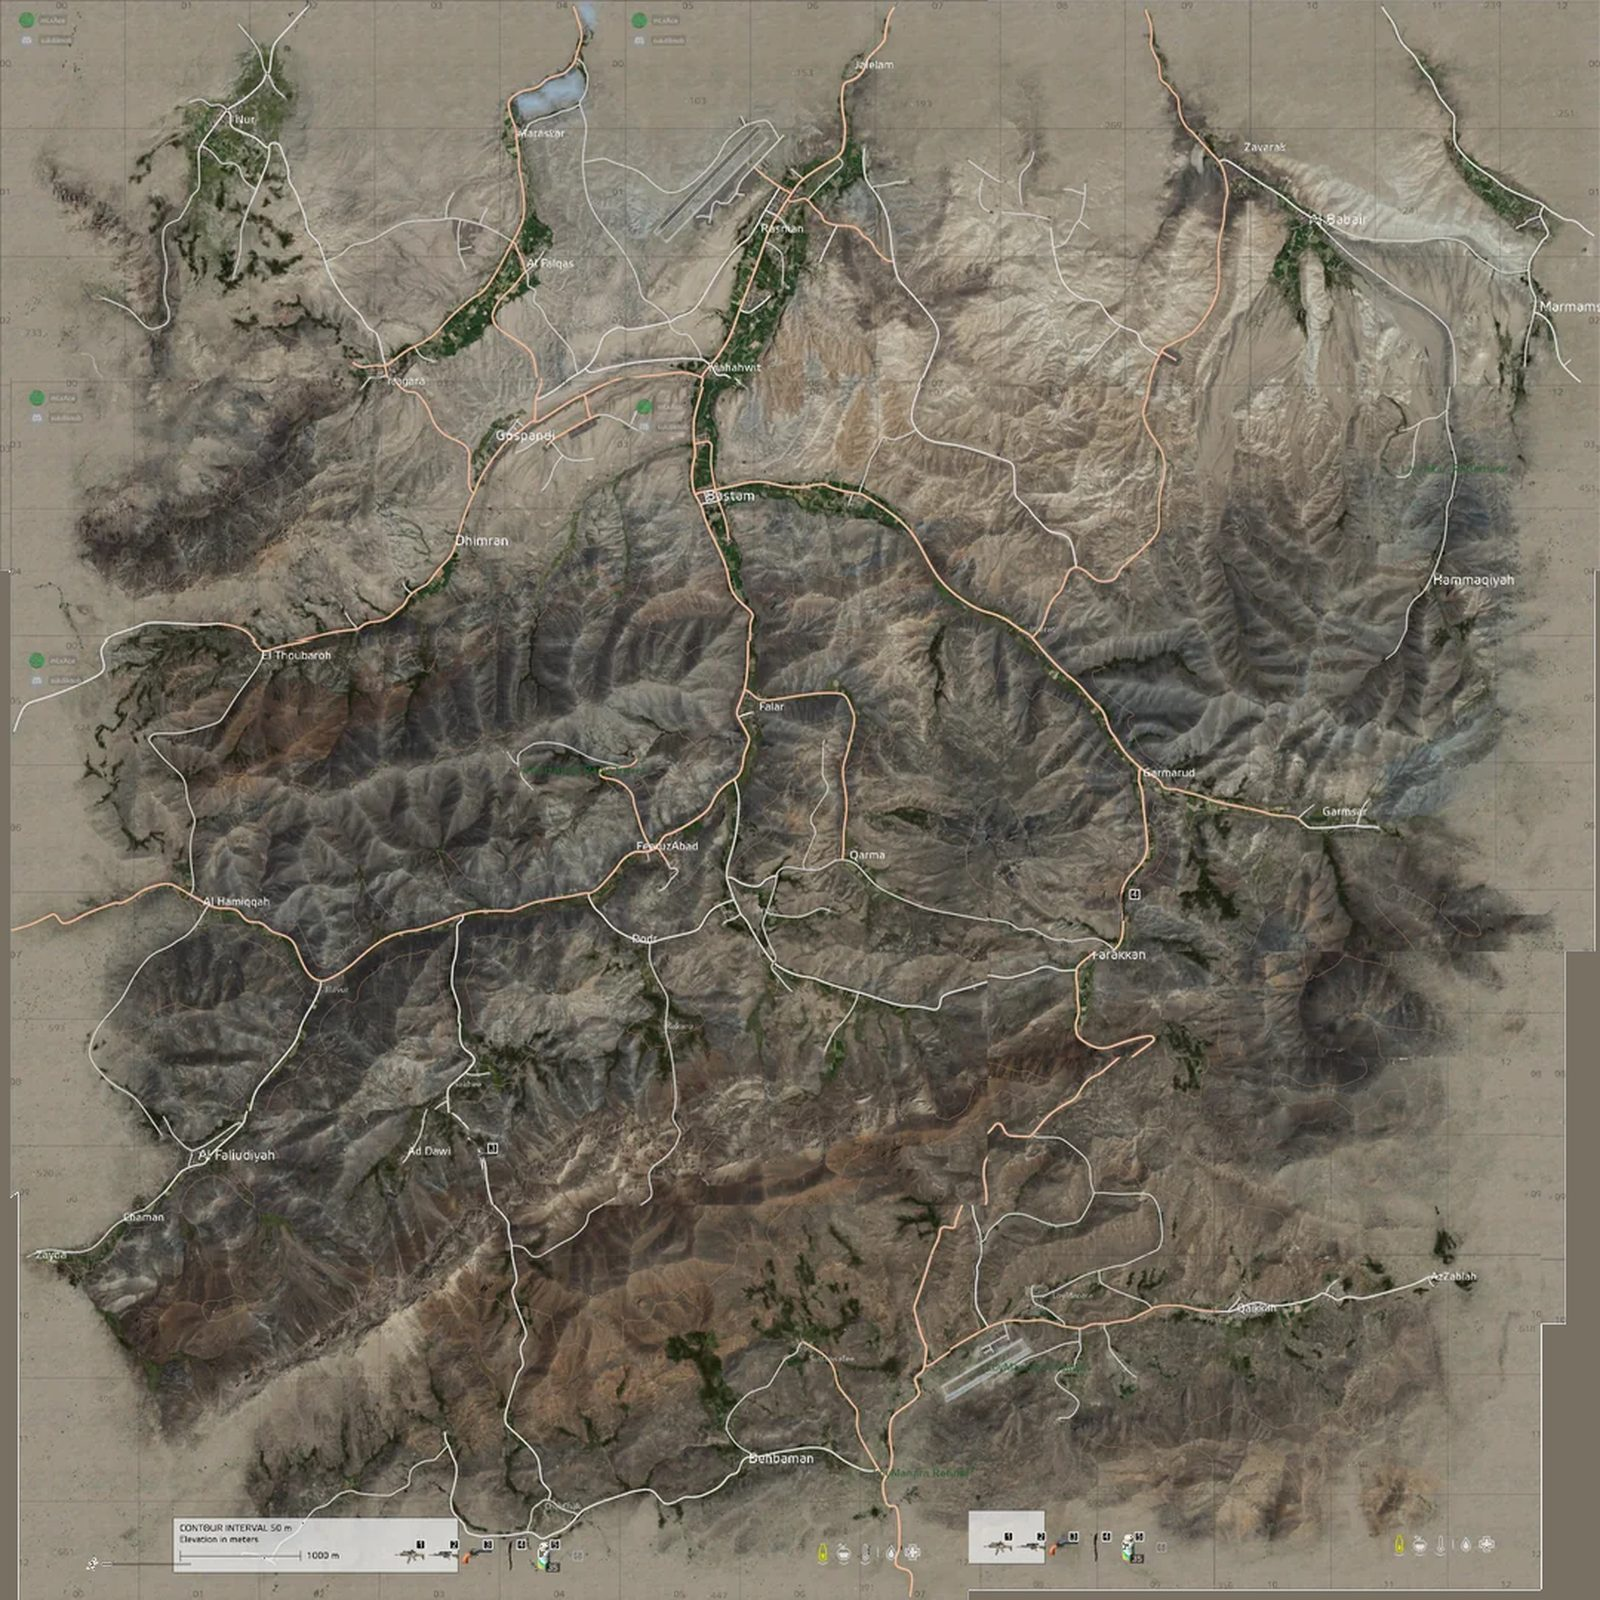
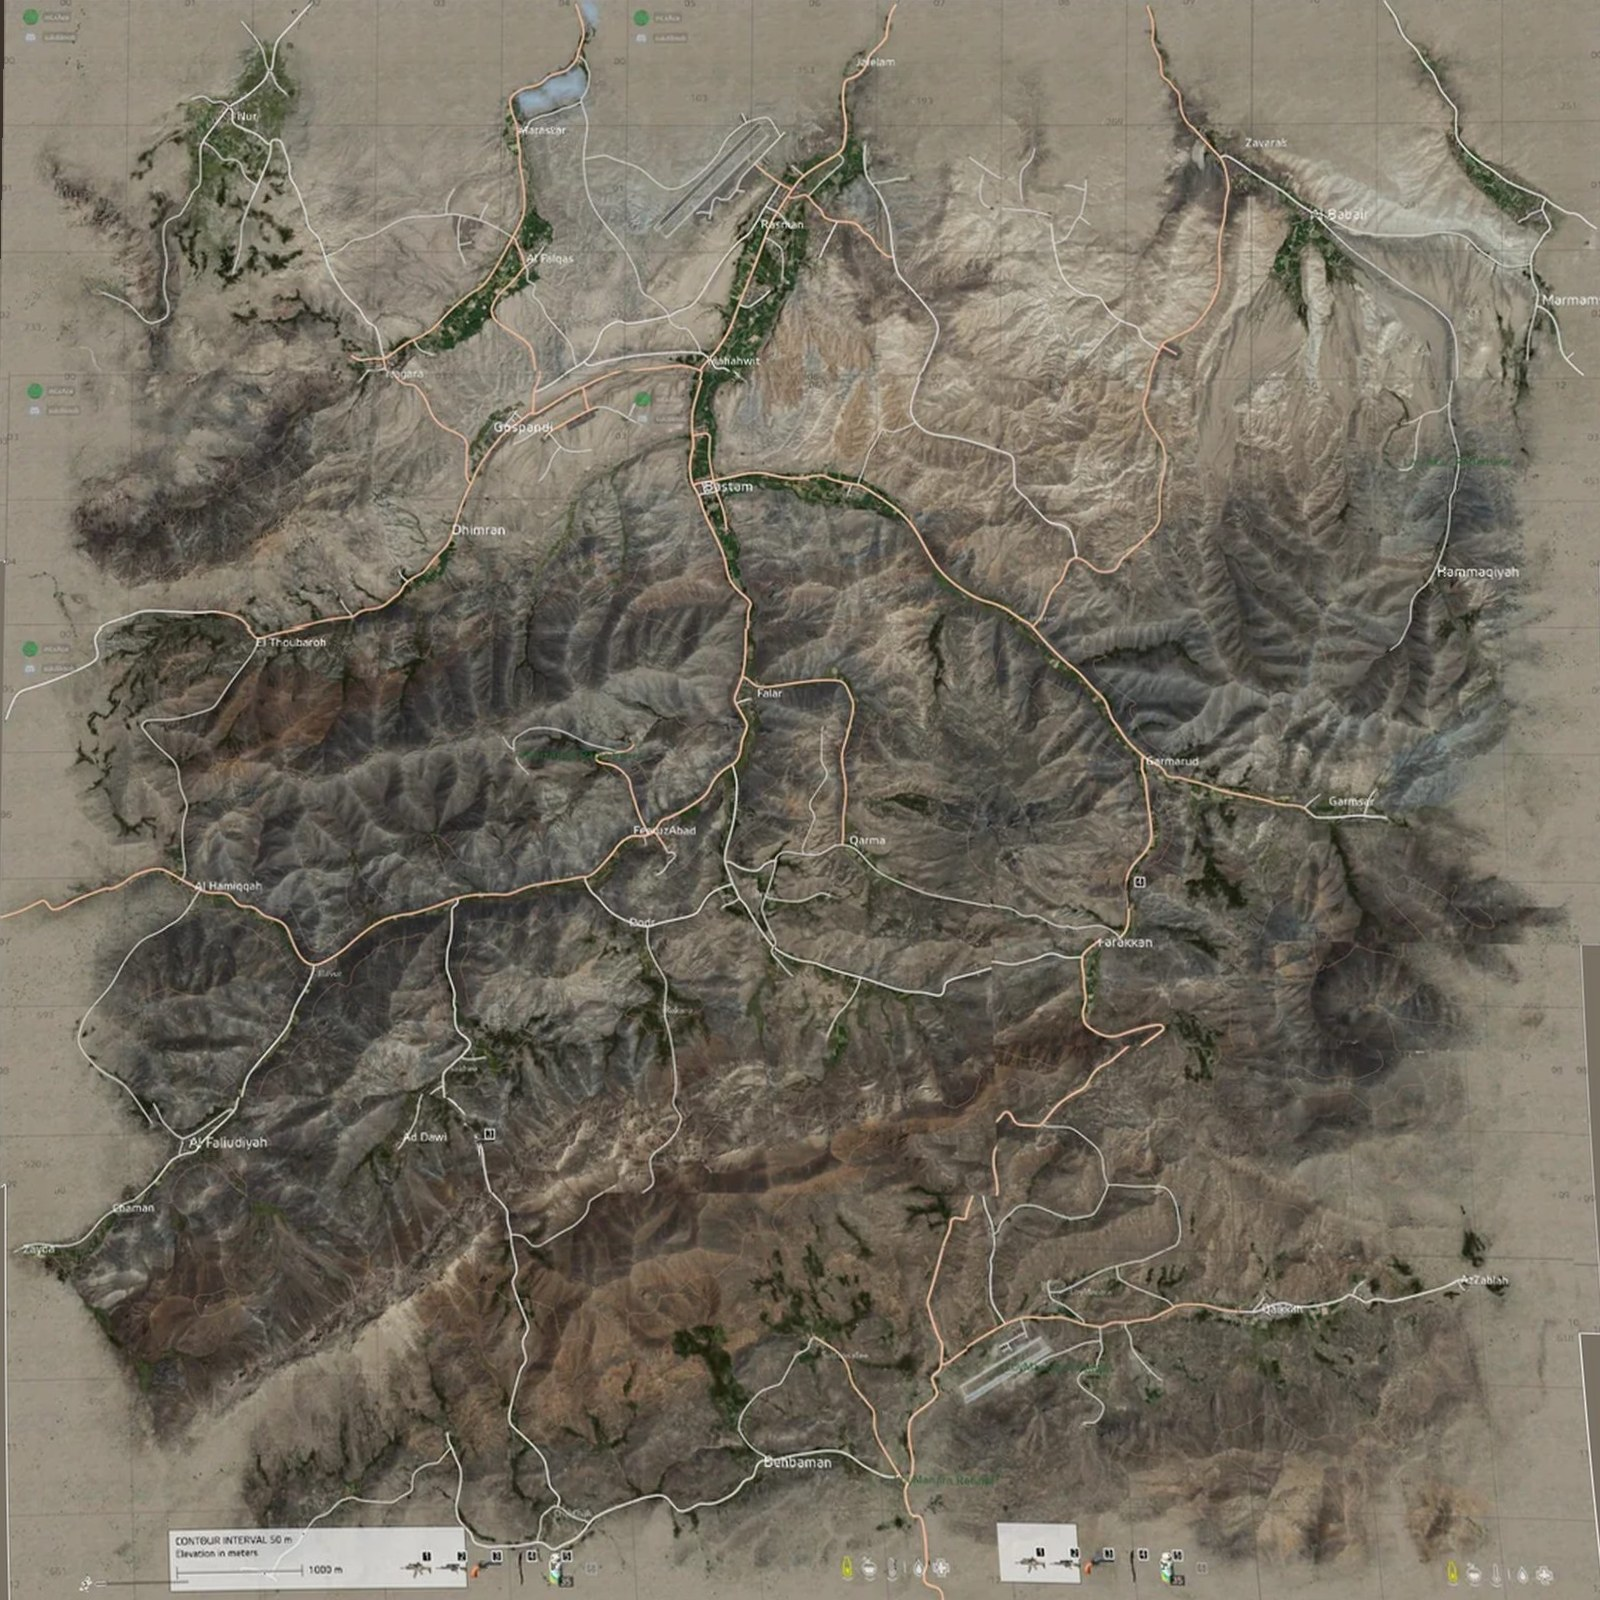
Live map: real road network from the Takistan terrain (all dirt roads), map image aligned to game coordinates
Claude-Session: https://claude.ai/code/session_01ShNcGaLjVBszA2NbtU566Y

diff --git a/livemap/index.html b/livemap/index.html
@@ -135,7 +135,7 @@ ol.dirs li:last-child{border-bottom:0}
       <h2>Directions</h2>
       <ol class="dirs" id="dirs"><li class="empty" style="display:block;border:0">Add a destination to get directions.</li></ol>
     </section>
-    <p class="help" style="font-size:.82rem">Only you can see your own position. Roads are traced from the map; dashed lines are off-road stretches.</p>
+    <p class="help" style="font-size:.82rem">Only you can see your own position. Roads come from the game's own road data, small dirt roads included; dashed route lines are off-road stretches.</p>
   </aside>
 </main>
 
@@ -180,7 +180,7 @@ for(const [n,x,z,k] of POIS){
 }
 // road overlay (optional)
 const roadLayer=L.layerGroup();
-for(const e of roads.edges) L.polyline(e.pts.map(p=>ll(p[0],p[1])),{color:e.major?'#ffb347':'#e9dcc6',weight:e.major?3:2,opacity:.75,interactive:false}).addTo(roadLayer);
+for(const e of roads.edges) L.polyline(e.pts.map(p=>ll(p[0],p[1])),{color:e.major?'#ffb347':'#e9dcc6',weight:e.major?3:e.kind==='path'?1:2,opacity:.75,dashArray:e.kind==='path'?'3 4':null,interactive:false}).addTo(roadLayer);
 $('roadsBtn').onclick=()=>{const on=$('roadsBtn').getAttribute('aria-pressed')!=='true';$('roadsBtn').setAttribute('aria-pressed',on);on?roadLayer.addTo(map):roadLayer.remove();};
 
 // ---------- live events ----------
@@ -214,7 +214,7 @@ drawEvents();
 
 // ---------- road graph ----------
 const N=roads.nodes.length; const adj=Array.from({length:N},()=>[]);
-roads.edges.forEach((e,i)=>{const w=e.len*(e.major?0.9:1);adj[e.a].push({to:e.b,w,ei:i,fwd:true});adj[e.b].push({to:e.a,w,ei:i,fwd:false});});
+roads.edges.forEach((e,i)=>{const w=e.len*(e.major?0.9:e.kind==='path'?1.6:1);adj[e.a].push({to:e.b,w,ei:i,fwd:true});adj[e.b].push({to:e.a,w,ei:i,fwd:false});});
 const segLen=(a,b)=>Math.hypot(b[0]-a[0],b[1]-a[1]);
 // snap a point to the nearest spot on any road
 function snap(x,z){
